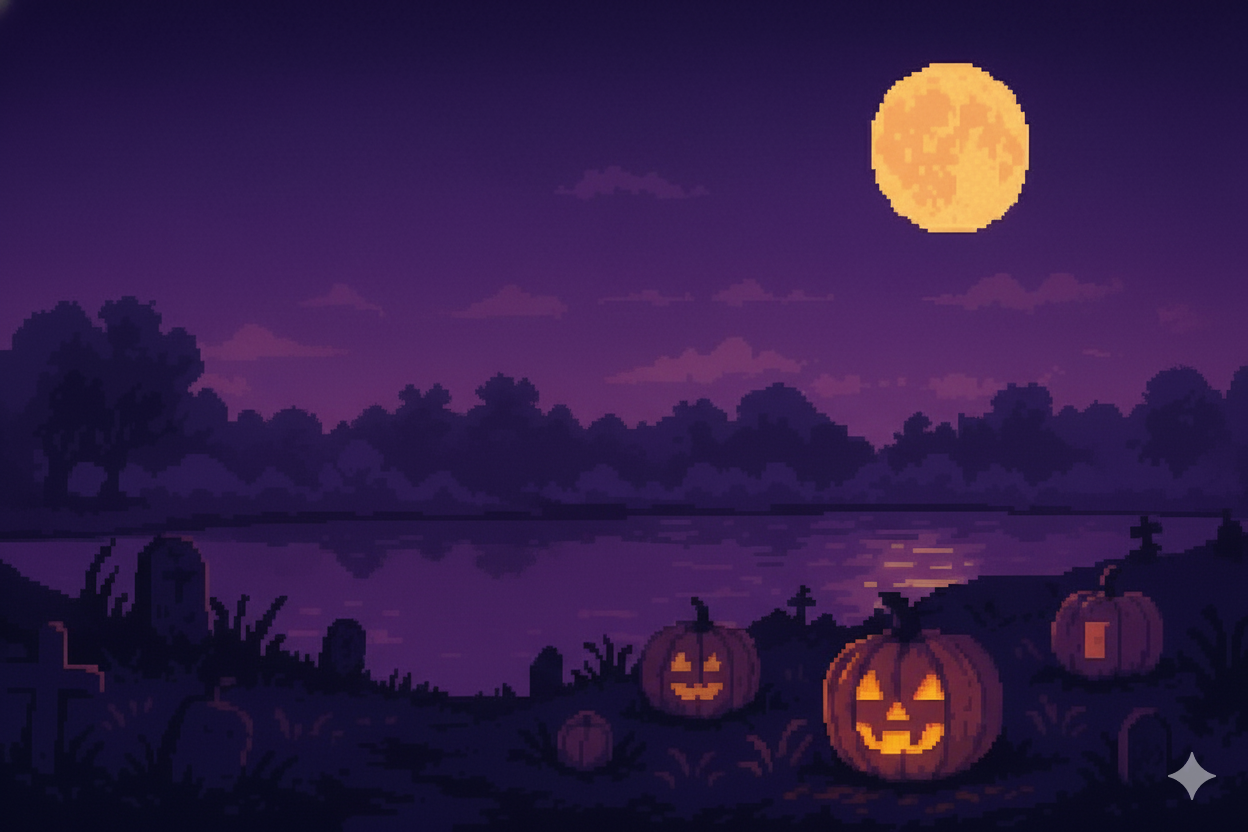
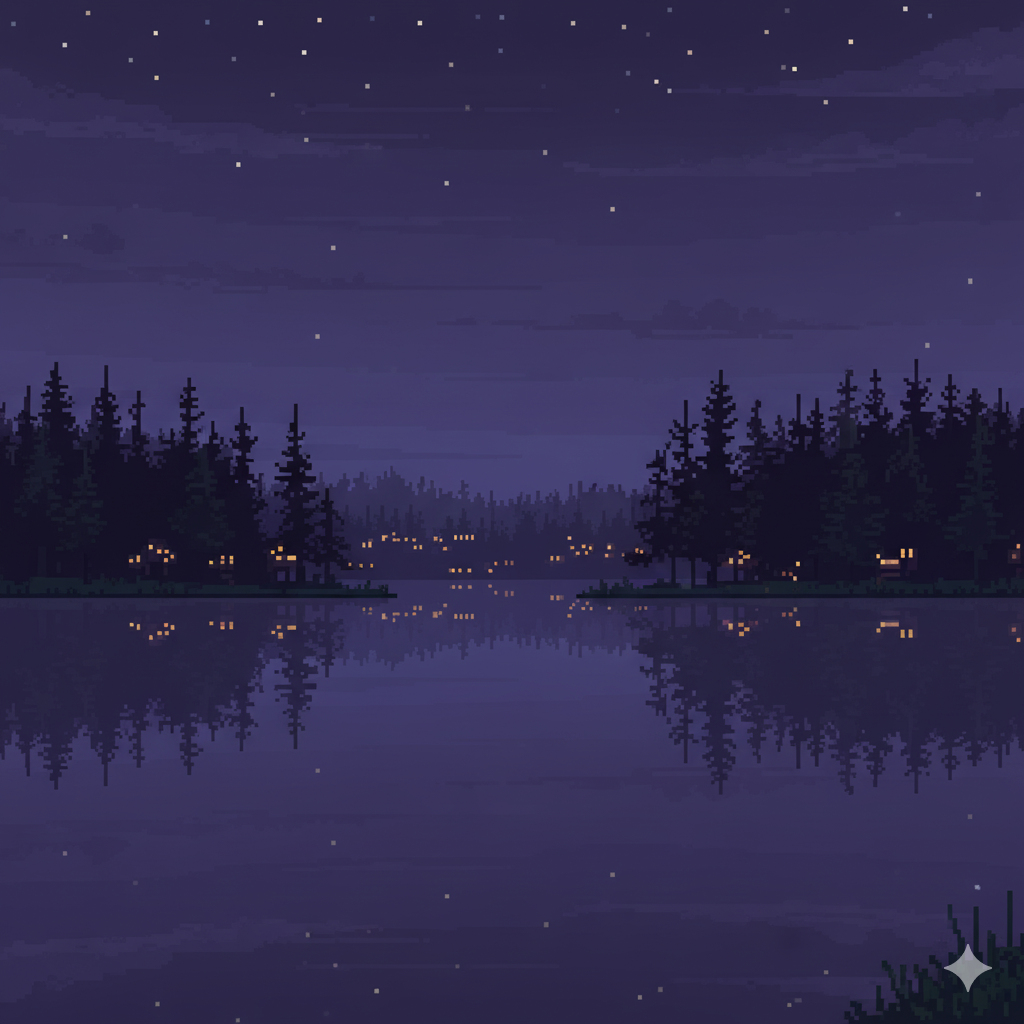
Made seamless transition image available.

diff --git a/Python Projects/FlappyGoose/poopy_goose.py b/Python Projects/FlappyGoose/poopy_goose.py
@@ -53,10 +53,15 @@ frame_delay = 20
 # bg_speed = 2
 
 background_files = [
-    "bg_campus.png",
     "bg_river.png",
+    "bg_plain2.png",
     "bg_river.png",
-    "bg_plain.png"
+    "bg_castle.png",
+    "bg_plain.png",
+    "bg_river.png",
+    "bg_plain2.png",
+    "bg_plain2.png",
+    "bg_lighthouse.png",
 ]
 
 backgrounds = [pygame.transform.scale(pygame.image.load(path).convert(), (WIDTH, HEIGHT))
